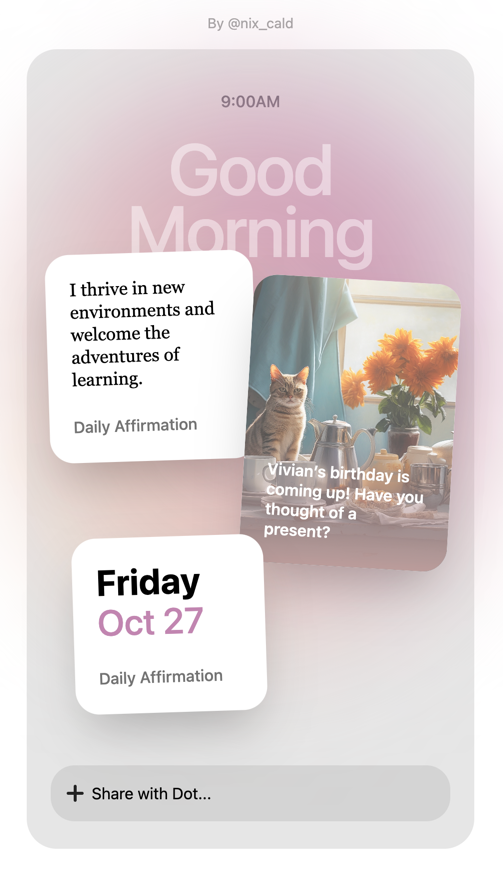
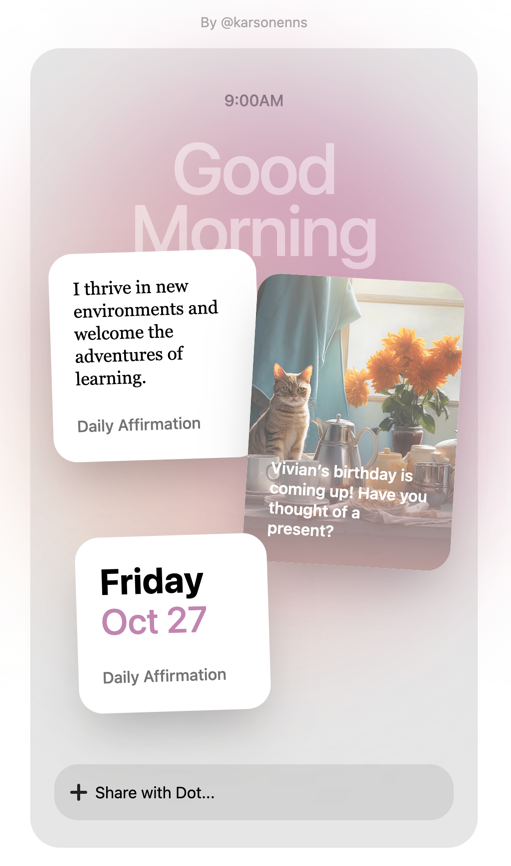
Readme comit

diff --git a/src/index.html b/src/index.html
@@ -95,7 +95,7 @@
 
   </head>
   <body>
-    <a href="https://x.com/nixcald" class="block py-4 w-full text-center text-neutral-400 text-sm">By @nix_cald</a>
+    <a href="https://x.com/karsonenns" class="block py-4 w-full text-center text-neutral-400 text-sm">By @karsonenns</a>
     <div class="text-center relative bg-dot max-w-md m-auto h-[800px] rounded-[30px]">
       <div class="animated-background top-12 z-0 absolute w-full h-2/3 bg-gradient-to-bl  from-purblur  to-yelblur rounded-full blur-3xl"></div>
 

diff --git a/README.md b/README.md
@@ -1,7 +1,7 @@
 #Dot Web
 
 #Introduction
-A web implementation example of Dot by https://new.computer
+A web implementation example of Dot by https://new.computer that I coded on a 4-hour plane ride.
 
 ![img.png](img.png)
 
